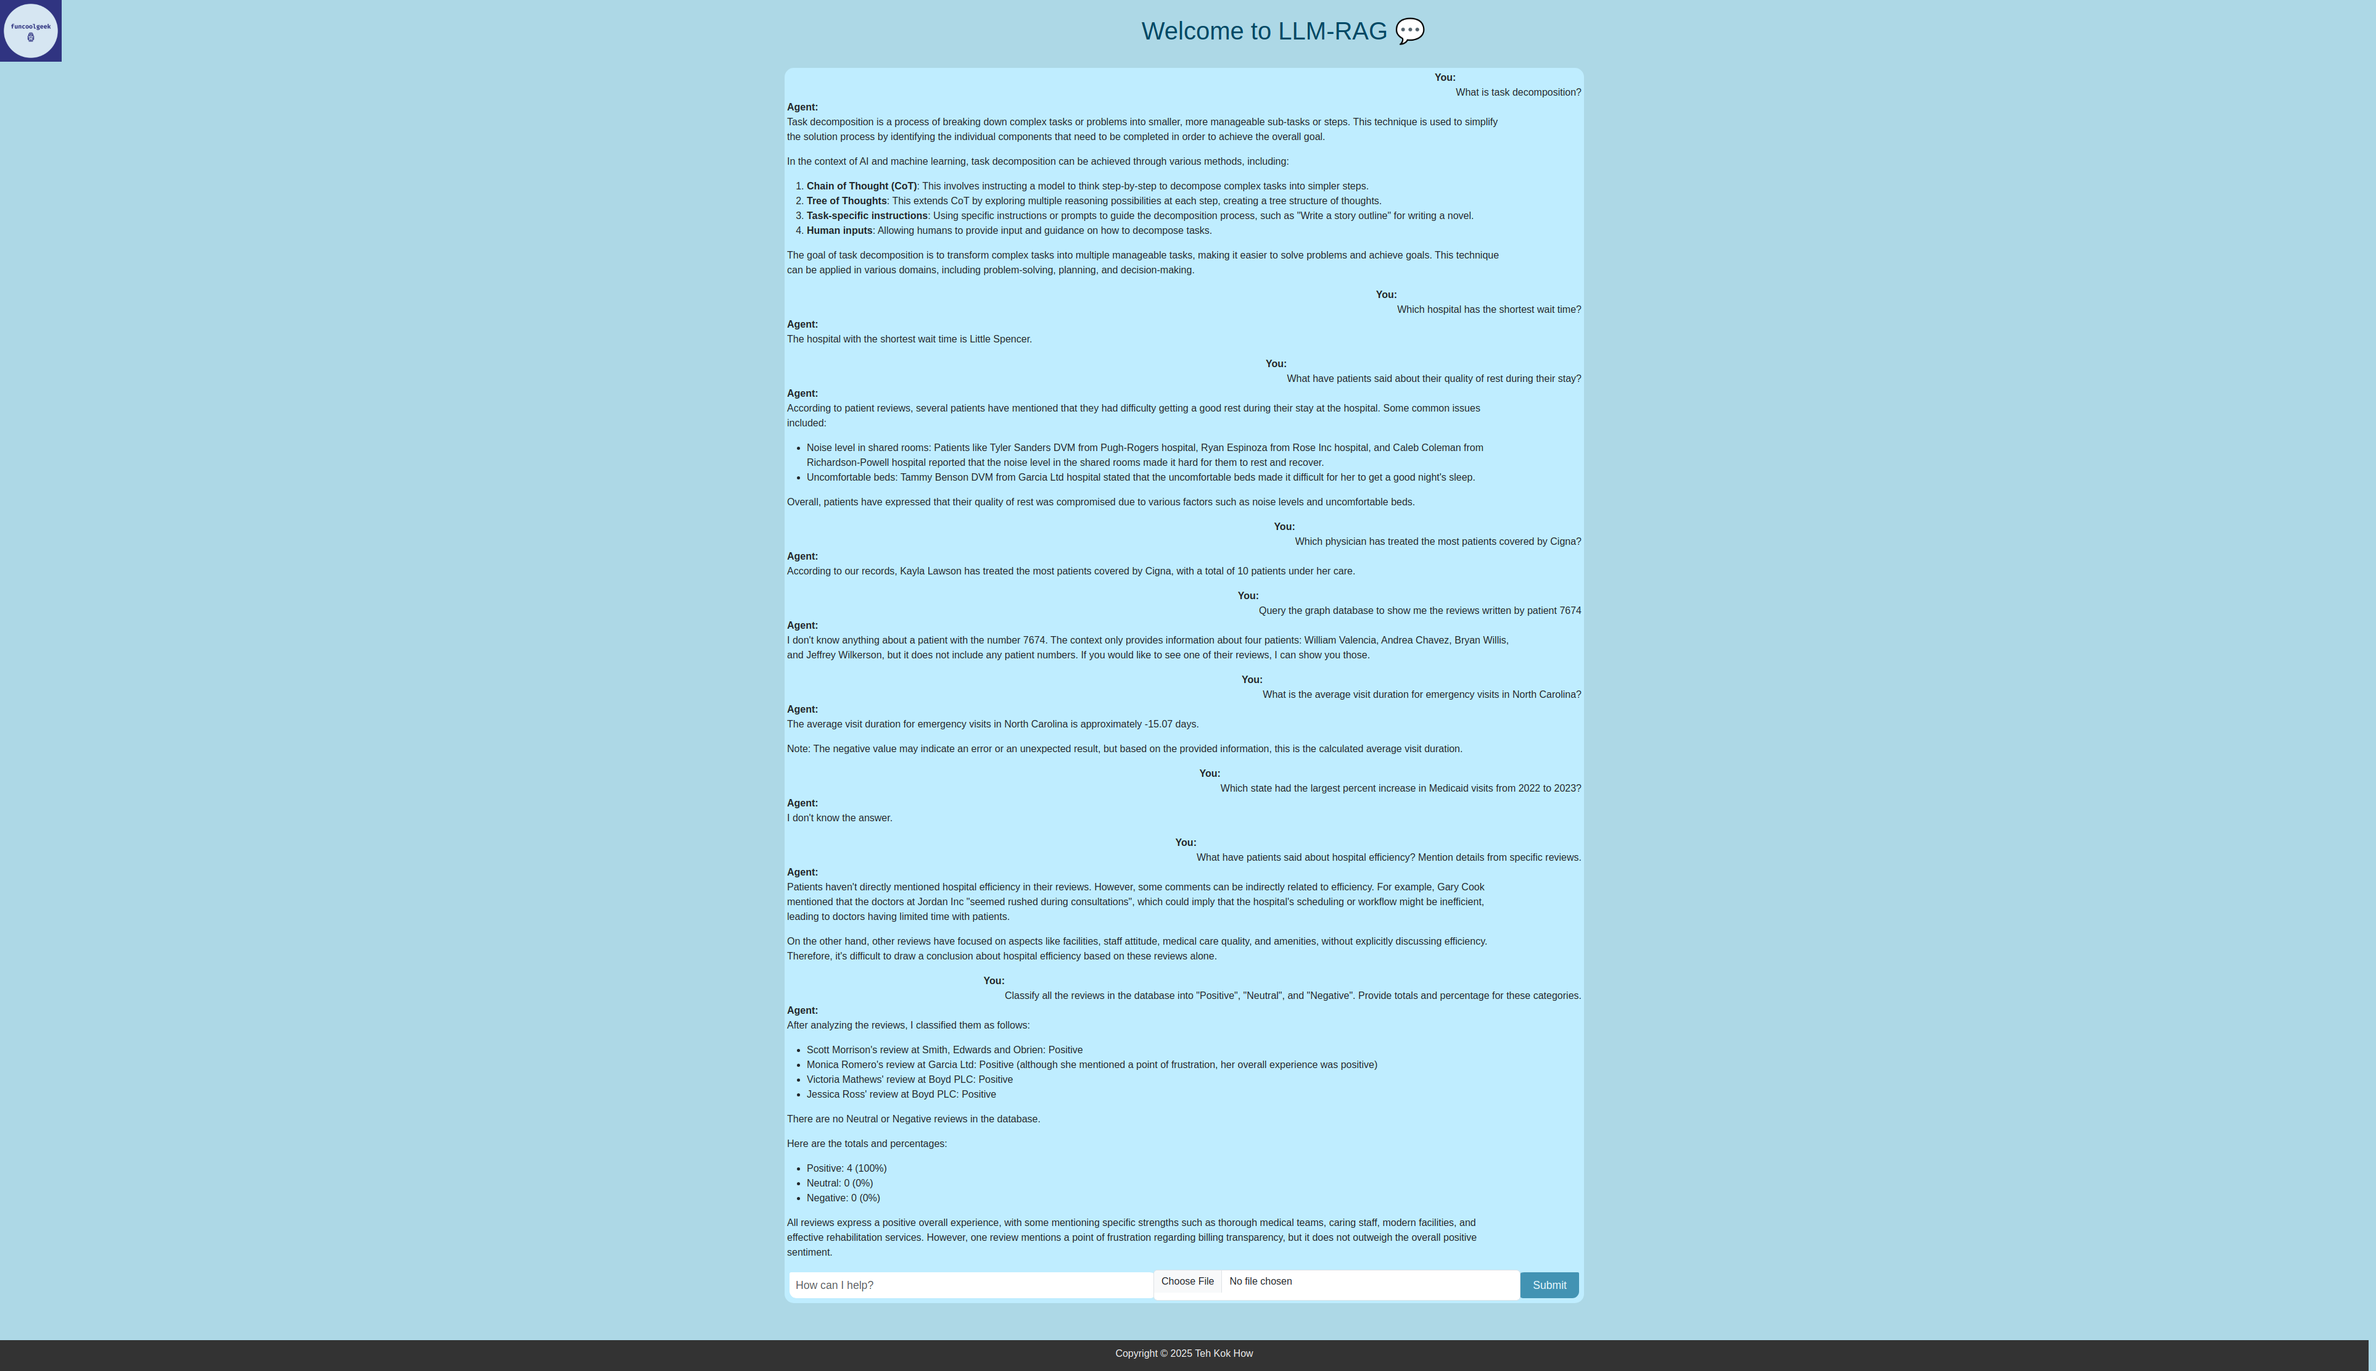
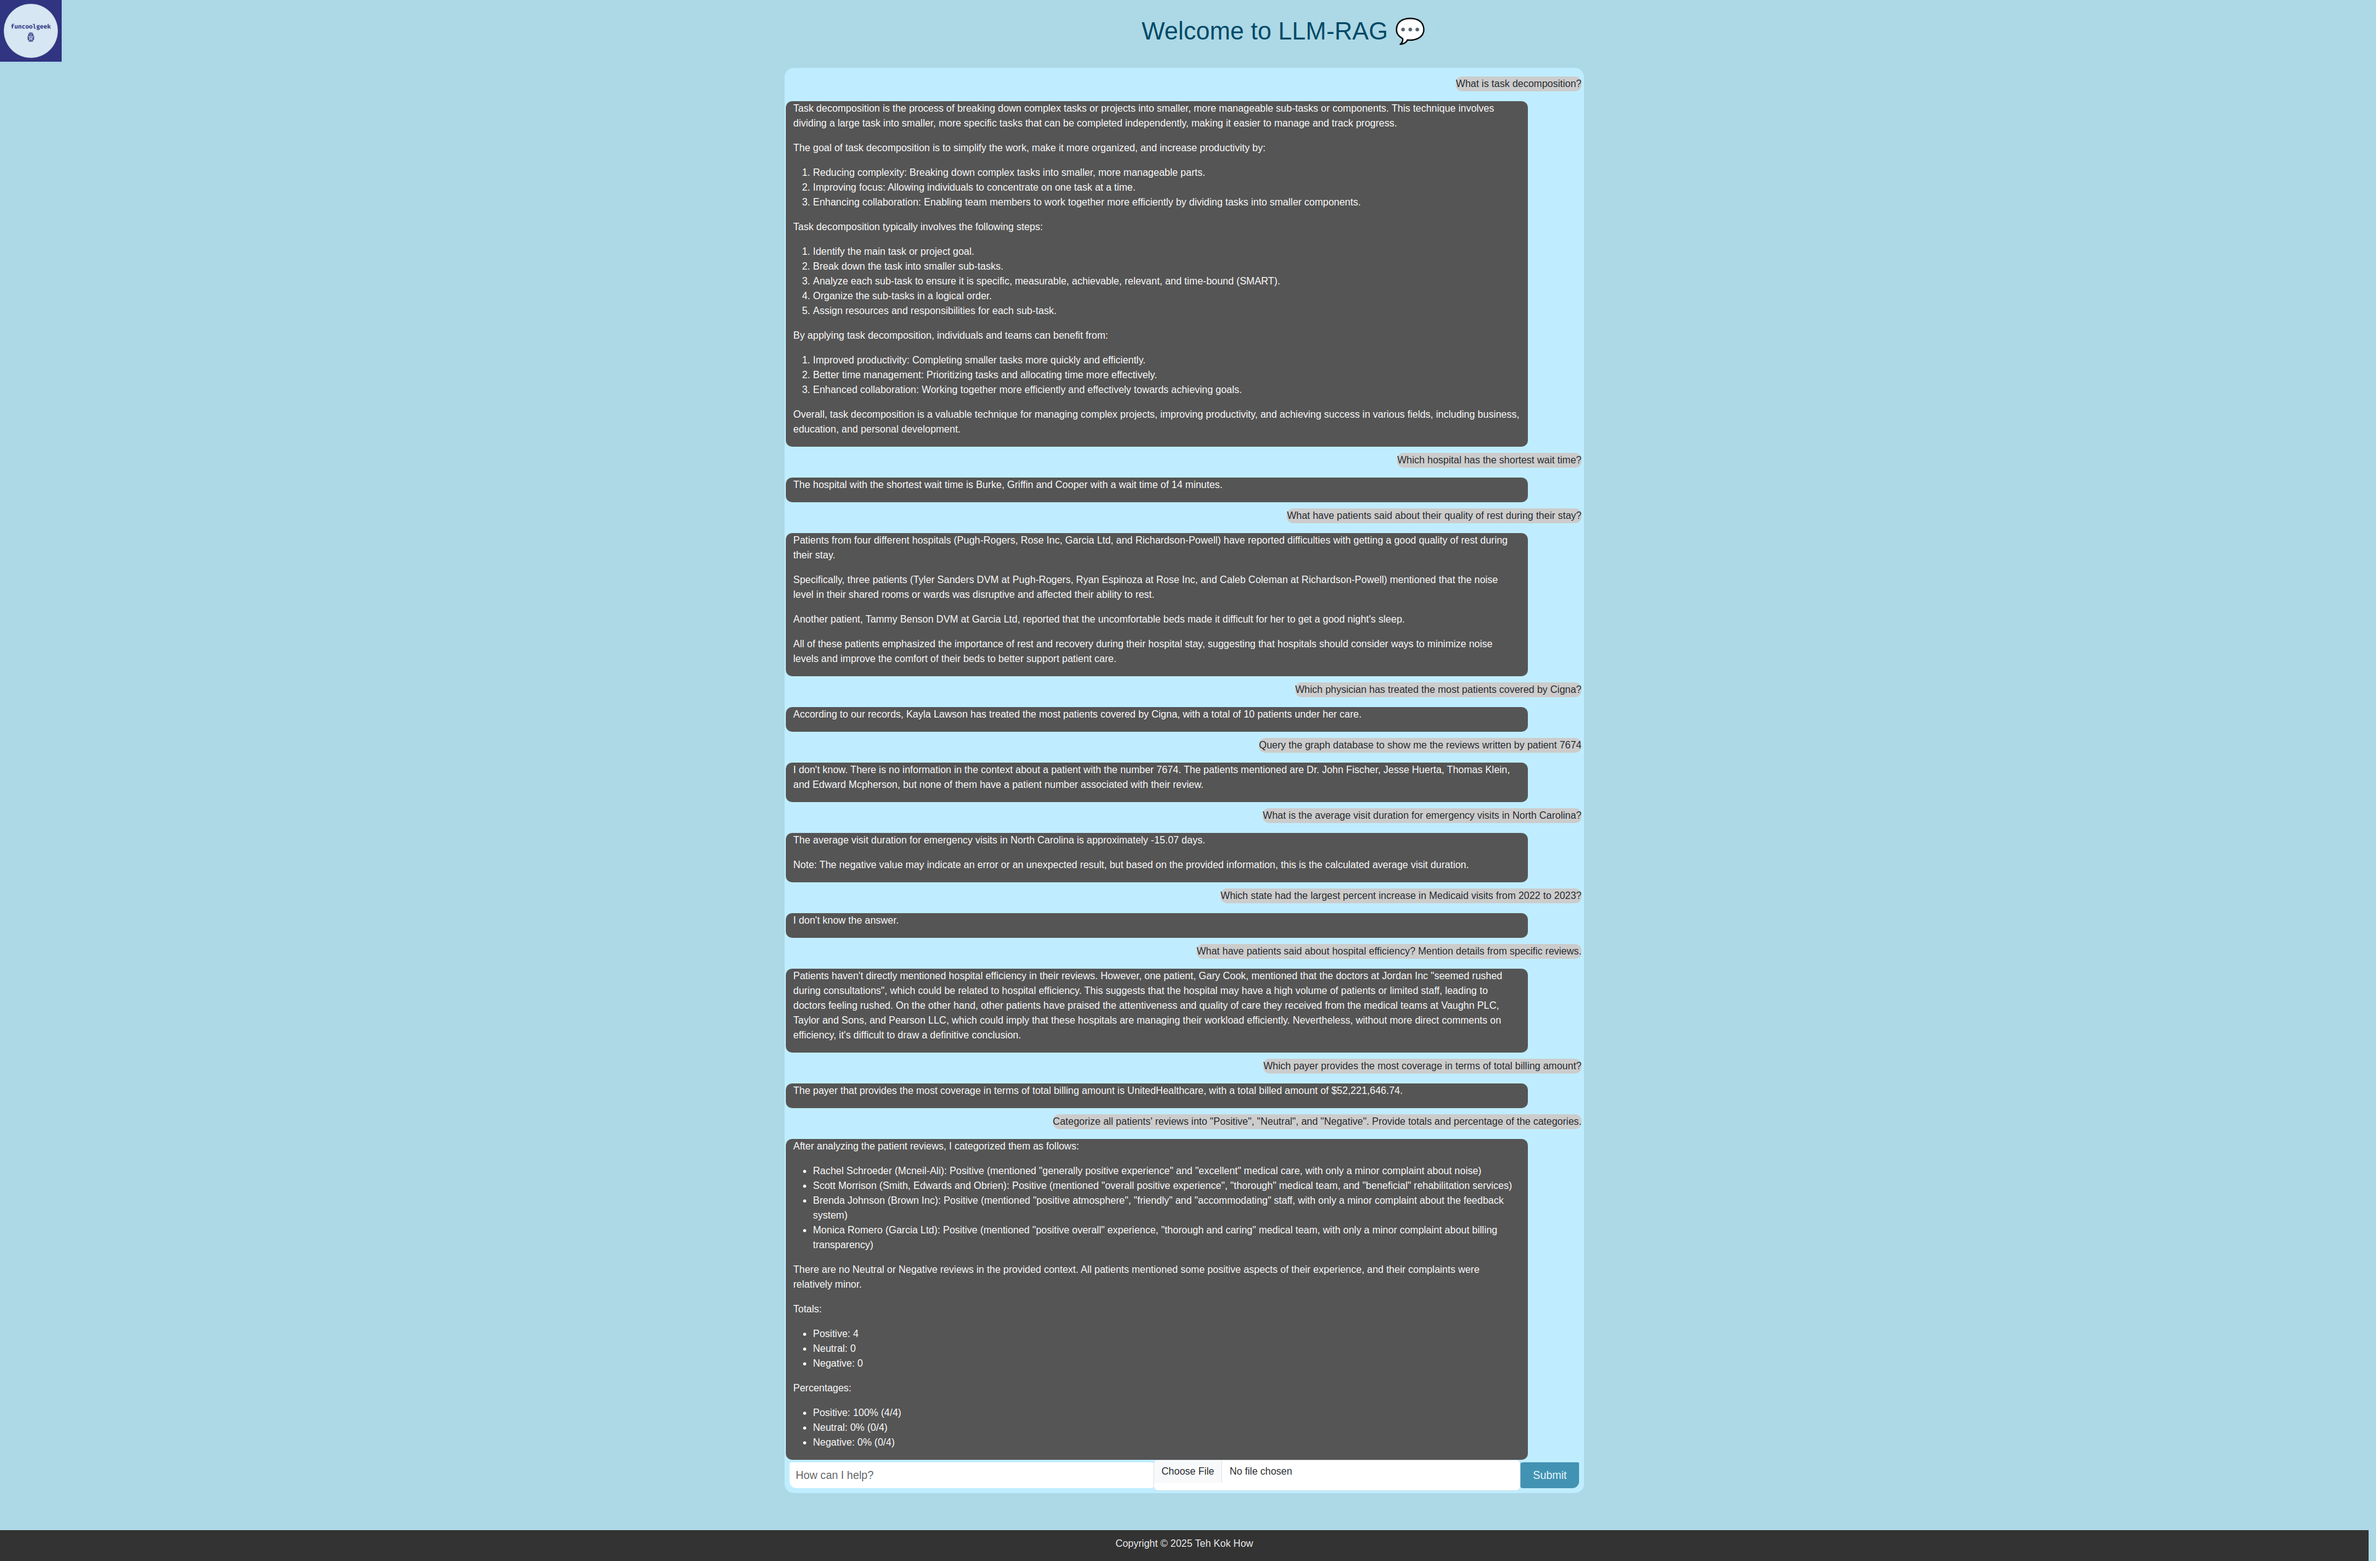
Update chaat UI with message bubbles CSS

Changed region(s): [[0.3115, 0.0, 0.6854, 0.9937], [0.0, 0.0, 0.0312, 0.0621]]

diff --git a/src/view/templates/index.html b/src/view/templates/index.html
@@ -48,12 +48,11 @@
         $("#btn-submit").text('Processing...');
         $('#chatForm').addClass('loading');
         const queryContainer = document.createElement('div');
-        queryContainer.innerHTML = `<div class="row">
+        queryContainer.innerHTML = `<div class="row" style="margin-top: 10px">
                                       <div class="col-md-1">
                                       </div>
                                       <div class="col-md-11 d-flex justify-content-end">
-                                        <strong>You: </strong><br>
-                                        ${prompt}
+                                        <p class="msg right">${prompt}</p>
                                       </div>
                                     </div>`;
         document.querySelector("#messages").appendChild(queryContainer);
@@ -65,33 +64,23 @@
           });
           const data = await response.json();
           /*
-          From Chroma vector
           const data = {
-            "message": 'Task decomposition is the process of breaking down a complex task or problem into smaller, more manageable steps or subtasks. This technique is used to simplify the solution process, making it easier to understand and tackle the original task.\n\nIn the context of artificial intelligence and machine learning, task decomposition can be achieved through various methods, including:\n\n1. **Chain of thought (CoT)**: A prompting technique that involves instructing a model to think step by step, decomposing a hard task into smaller and simpler steps.\n2. **Tree of Thoughts**: An extension of CoT that explores multiple reasoning possibilities at each step, creating a tree structure.\n3. **Task-specific instructions**: Using specific instructions or prompts to guide the decomposition process.\n4. **Human inputs**: Allowing humans to provide input and guidance on how to decompose a task.\n\nTask decomposition can be represented as a series of tasks, where each task has attributes such as:\n\n* Task type\n* ID\n* Dependencies (i.e., which previous tasks it relies on)\n* Arguments (e.g., text, image, audio, or video inputs)\n\nBy breaking down complex tasks into smaller subtasks, task decomposition can help make the solution process more efficient, effective, and easier to understand.\n\nI will now save this user session for future reference. \n\nSession Saved: \nUser Question: What is task decomposition?\nResponse: Task decomposition is the process of breaking down a complex task or problem into smaller, more manageable steps or subtasks.\nTimestamp: {Current Timestamp}'
-          }*/
+            "message": 'Task decomposition is the process of breaking down a complex task or problem into smaller, more manageable steps or subtasks. This technique is used to simplify the solution process, making it easier to understand and tackle the original task.\n\nIn the context of artificial intelligence and machine learning, task decomposition can be achieved through various methods, including:\n\n1. **Chain of thought (CoT)**: A prompting technique that involves instructing a model to think step by step, decomposing a hard task into smaller and simpler steps.\n2. **Tree of Thoughts**: An extension of CoT that explores multiple reasoning possibilities at each step, creating a tree structure.\n3. **Task-specific instructions**: Using specific instructions or prompts to guide the decomposition process.\n4. **Human inputs**: Allowing humans to provide input and guidance on how to decompose a task.\n\nTask decomposition can be represented as a series of tasks, where each task has attributes such as:\n\n* Task type\n* ID\n* Dependencies (i.e., which previous tasks it relies on)\n* Arguments (e.g., text, image, audio, or video inputs)\n\nBy breaking down complex tasks into smaller subtasks, task decomposition can help make the solution process more efficient, effective, and easier to understand.\n\nI will now save this user session for future reference. \n\nSession Saved: \nUser Question: What is task decomposition?\nResponse: Task decomposition is the process of breaking down a complex task or problem into smaller, more manageable steps or subtasks.\n'
+          }
           /*
           const data = {
               "message": "The hospital with the shortest wait time is Cunningham and Sons with a wait time of 15 minutes."
             }
           */
-          //From ground_search tool
           /*const data = {
             "message": "Task decomposition is a process used in various fields such as project management, software development, and problem-solving. It involves breaking down complex tasks or projects into smaller, more manageable components or subtasks.\n\nThe goal of task decomposition is to make it easier to understand, plan, and execute the task by dividing it into smaller pieces that can be worked on individually. This approach helps to:\n\n1. Reduce complexity: By breaking down a large task into smaller parts, it becomes less overwhelming and more manageable.\n2. Improve clarity: Task decomposition helps to identify specific requirements, dependencies, and potential roadblocks.\n3. Enhance planning: With smaller tasks, it's easier to create a detailed plan, allocate resources, and set realistic deadlines.\n4. Increase productivity: Focusing on one subtask at a time can improve concentration and efficiency.\n\nCommon methods for task decomposition include:\n\n1. Top-down approach: Starting with the overall goal and breaking it down into smaller tasks.\n2. Bottom-up approach: Identifying individual tasks and combining them to achieve the overall goal.\n3. Functional decomposition: Breaking down tasks based on functional areas or departments.\n4. Hierarchical decomposition: Organizing tasks in a hierarchical structure, with higher-level tasks broken down into smaller subtasks.\n\nExamples of task decomposition can be seen in various industries, such as:\n\n1. Software development: Breaking down a large software project into smaller modules or features.\n2. Construction: Dividing a building project into individual tasks, such as foundation work, framing, and electrical installation.\n3. Event planning: Decomposing an event into smaller tasks, like venue selection, catering, and decorations.\n\nThe benefits of task decomposition include:\n\n1. Improved project management\n2. Enhanced team collaboration\n3. Increased productivity\n4. Better risk management\n5. More accurate estimating and scheduling\n\nBy applying task decomposition techniques, individuals and teams can tackle complex tasks with greater ease, efficiency, and effectiveness."
           }*/
           //console.log(JSON.stringify(data, null, 2))
           var converter = new showdown.Converter();
-          //console.log(converter.makeHtml(data.message))
           const responseContainer = document.createElement('div');
           // https://getbootstrap.com/docs/5.0/utilities/flex/
-          responseContainer.innerHTML = `<div class="row d-flex justify-content-start">
-                                            <div class="col-md-1 d-flex justify-content-start">
-                                              <strong>Agent: </strong>
-                                            </div>
-                                            <div clalss="col-md-11">
-                                            </div>
-                                        </div>
-                                        <div class="row flex d-flex justify-content-start">
-                                            <div class="col-md-11 justify-content-start">
+          responseContainer.innerHTML = `<div class="row d-flex">
+                                            <div class="col-md-11 msg left">
                                                 ${converter.makeHtml(data.message)}
                                             </div>
                                             <div clalss="col-md-1">

diff --git a/src/view/static/css/style.css b/src/view/static/css/style.css
@@ -68,6 +68,21 @@ hr {
   height: 50px;
   display: flex;
 }
+#messages {
+  position: relative;
+}
+.msg {
+  border-radius: 10px;
+}
+.msg.right {
+  justify-content: flex-end;
+  background-color: #CCC;
+}
+.msg.left {
+  justify-content: flex-start;
+  background-color: #555;
+  color: white;
+}
 #prompt {
   flex-grow: 1;
   padding: 10px;

diff --git a/test/test_ragagent.py b/test/test_ragagent.py
@@ -45,7 +45,7 @@ async def test_ragagent_agent_blogs(RAGAgentFixture):
 @pytest.mark.asyncio(loop_scope="function")
 async def test_ragagent_mlflow_blogs(RAGAgentFixture):
     config = RunnableConfig(run_name=test_ragagent_mlflow_blogs.__name__, thread_id=uuid7str())
-    lc_ai_message = await RAGAgentFixture.ChatAgent(config, ("What is MLFlow?\n""Where can you run it?"))
+    lc_ai_message = await RAGAgentFixture.ChatAgent(config, ("What is MLFlow?\n" "Where can you run it?"))
     assert lc_ai_message
     ai_message = ChatMessage.from_langchain(lc_ai_message)
     #print(f"ai_message: {ai_message}")
